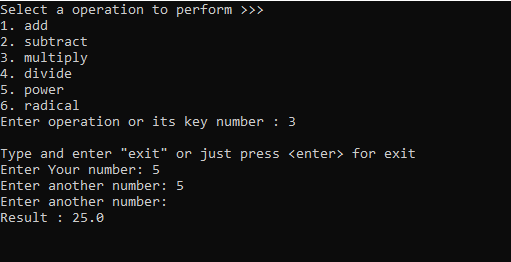
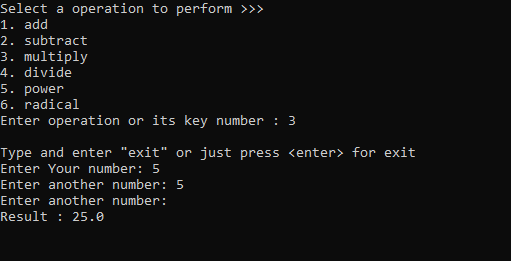
Update README.md: 'result.png' fixed

diff --git a/README.md b/README.md
@@ -14,9 +14,6 @@
 ---
 
 ### Preview Screenshots:
-
-<table align="center">
-  <tr>
-    <td><img src="Images/result.png" alt="screen1" height="450" /></td>
-  </tr>
-</table>
+<p>
+    <img src="Images/result.png" alt="Picture is loading" height="450"/>
+</p>
